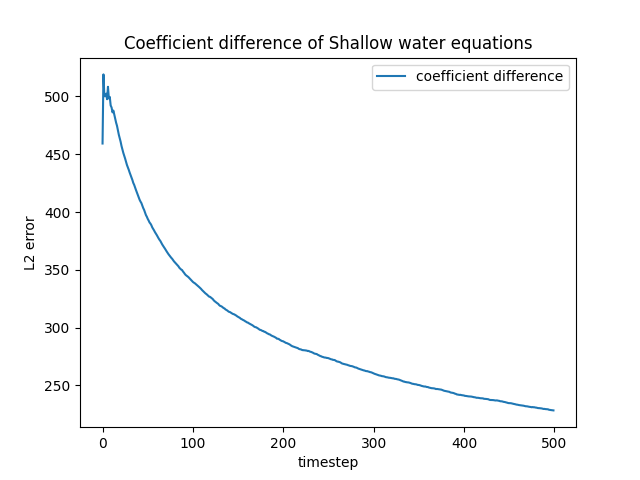
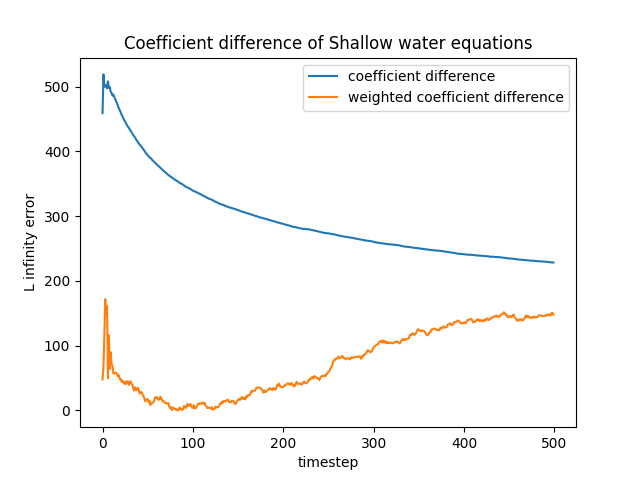
weighted coefficient graphs

diff --git a/experiments/shallowwater.py b/experiments/shallowwater.py
@@ -7,6 +7,7 @@ from numpy import linalg as LA
 import torch
 
 coefficient_difference = []
+weighted_coefficient_difference = []
 absolute_error = []
 relative_error = []
 actual_error = []
@@ -67,9 +68,38 @@ for timestep in range(500):
     # differences_a = compressor.normalize(blocks_a)
     coefficient_a = compressor.blockwise_transform(blocks_a)
 
+    weighted_coefficient_sum_a = 0.0
+    for blocks_rowwise in range(coefficient_a.size()[0]):
+        for blocks_columnwise in range(coefficient_a.size()[1]):
+            for row_in_block in range(coefficient_a.size()[2]):
+                weighted_coefficient_sum_a += (
+                    0.8 * coefficient_a[blocks_rowwise][blocks_columnwise][row_in_block][0]
+                    + 0.1 * coefficient_a[blocks_rowwise][blocks_columnwise][row_in_block][1]
+                    + 0.05 * coefficient_a[blocks_rowwise][blocks_columnwise][row_in_block][2]
+                    + 0.02 * coefficient_a[blocks_rowwise][blocks_columnwise][row_in_block][3]
+                    + 0.01 * coefficient_a[blocks_rowwise][blocks_columnwise][row_in_block][4]
+                    + 0.013 * coefficient_a[blocks_rowwise][blocks_columnwise][row_in_block][5]
+                    + 0.005 * coefficient_a[blocks_rowwise][blocks_columnwise][row_in_block][6]
+                    + 0.002 * coefficient_a[blocks_rowwise][blocks_columnwise][row_in_block][7]
+                )
+
     blocks_b = compressor.block(b)
     # differences_b = compressor.normalize(blocks_b)
     coefficient_b = compressor.blockwise_transform(blocks_b)
+    weighted_coefficient_sum_b = 0.0
+    for blocks_rowwise in range(coefficient_b.size()[0]):
+        for blocks_columnwise in range(coefficient_b.size()[1]):
+            for row_in_block in range(coefficient_b.size()[2]):
+                weighted_coefficient_sum_b += (
+                    0.8 * coefficient_b[blocks_rowwise][blocks_columnwise][row_in_block][0]
+                    + 0.1 * coefficient_b[blocks_rowwise][blocks_columnwise][row_in_block][1]
+                    + 0.05 * coefficient_b[blocks_rowwise][blocks_columnwise][row_in_block][2]
+                    + 0.02 * coefficient_b[blocks_rowwise][blocks_columnwise][row_in_block][3]
+                    + 0.013 * coefficient_b[blocks_rowwise][blocks_columnwise][row_in_block][4]
+                    + 0.01 * coefficient_b[blocks_rowwise][blocks_columnwise][row_in_block][5]
+                    + 0.005 * coefficient_b[blocks_rowwise][blocks_columnwise][row_in_block][6]
+                    + 0.002 * coefficient_b[blocks_rowwise][blocks_columnwise][row_in_block][7]
+                )
 
     compressed_a = compressor.compress(a)
     compressed_b = compressor.compress(b)
@@ -78,6 +108,7 @@ for timestep in range(500):
     decompressed_subtraction = compressor.decompress(compressed_b - compressed_a)
     timesteps.append(timestep)
     coefficient_difference.append((coefficient_b - coefficient_a).norm(float("inf")))
+    weighted_coefficient_difference.append(abs(weighted_coefficient_sum_b - weighted_coefficient_sum_a))
     absolute_error.append(decompressed_subtraction.norm(float("inf")))
     relative_error_tensor = np.nan_to_num(decompressed_subtraction / compressor.decompress(compressed_a))
     relative_error.append(LA.norm(relative_error_tensor, np.inf))
@@ -88,6 +119,7 @@ for timestep in range(500):
 # print(relative_error)
 # print(compressor.decompress(compressed_a))
 plt.plot(np.asarray(timesteps), np.asarray(coefficient_difference), label="coefficient difference")
+plt.plot(np.asarray(timesteps), np.asarray(weighted_coefficient_difference), label="weighted coefficient difference")
 plt.title("Coefficient difference of Shallow water equations")
 plt.xlabel("timestep")
 plt.ylabel("L infinity error")

diff --git a/compressed.py b/compressed.py
@@ -40,7 +40,7 @@ class CompressedTensor:
     @property
     def blocks_shape(self) -> tuple[int, ...]:
         return self.first_elements.shape
-
+ 
     @property
     def block_shape(self) -> tuple[int, ...]:
         return torch.tensor(self.original_shape) / torch.tensor(self.blocks_shape)
@@ -49,11 +49,7 @@ class CompressedTensor:
         """
         :returns: compressed block at the indices
         """
-        return CompressedBlock(
-            self.first_elements[item],
-            self.biggest_coefficients[item],
-            self.indicess[item],
-        )
+        return CompressedBlock(self.first_elements[item], self.biggest_coefficients[item], self.indicess[item])
 
     def __setitem__(self, key: tuple[int, ...] or int, value: CompressedBlock):
         self.first_elements[key] = value.first_element
@@ -64,34 +60,23 @@ class CompressedTensor:
         """
         :returns: negated compressed tensor.
         """
-        return CompressedTensor(
-            self.original_shape,
-            -self.first_elements,
-            self.biggest_coefficients,
-            -self.indicess,
-        )
+        return CompressedTensor(self.original_shape, -self.first_elements, self.biggest_coefficients, -self.indicess)
 
     def __add__(self, other):
         """
         :returns: sum of two compressed tensors
         """
         indices = (
-            self.indicess
-            * self.biggest_coefficients[(...,) + (None,) * self.n_dimensions]
-            + other.indicess
-            * other.biggest_coefficients[(...,) + (None,) * other.n_dimensions]
+            self.indicess * self.biggest_coefficients[(...,) + (None,) * self.n_dimensions]
+            + other.indicess * other.biggest_coefficients[(...,) + (None,) * other.n_dimensions]
         )
 
         proportion_of_radius = (
-            indices.norm(
-                torch.inf, tuple(range(self.n_dimensions, 2 * self.n_dimensions))
-            )
+            indices.norm(torch.inf, tuple(range(self.n_dimensions, 2 * self.n_dimensions)))
             / INDICES_RADIUS[self.indicess.dtype]
         )
         indices = torch.nan_to_num(
-            (indices / proportion_of_radius[(...,) + (None,) * other.n_dimensions])
-            .round()
-            .type(self.indicess.dtype)
+            (indices / proportion_of_radius[(...,) + (None,) * other.n_dimensions]).round().type(self.indicess.dtype)
         )
         return CompressedTensor(
             self.original_shape,
@@ -110,9 +95,7 @@ class CompressedTensor:
         """
         :returns: compressed tensor scaled by a scalar
         """
-        if isinstance(other, (float, int)) or (
-            isinstance(other, torch.Tensor) and other.numel() == 1
-        ):
+        if isinstance(other, (float, int)) or (isinstance(other, torch.Tensor) and other.numel() == 1):
             product = CompressedTensor(
                 self.original_shape,
                 self.first_elements * other,
@@ -121,9 +104,7 @@ class CompressedTensor:
             )
             return product
         else:
-            raise TypeError(
-                f"Multiply not defined between {type(self)} and {type(other)}."
-            )
+            raise TypeError(f"Multiply not defined between {type(self)} and {type(other)}.")
 
     def __rmul__(self, other):
         """

diff --git a/experiments/coefficients.py b/experiments/coefficients.py
@@ -1,6 +1,6 @@
 import argparse
 
-from sqlalchemy import false
+
 
 import compression
 import torch
@@ -39,15 +39,27 @@ def main():
 
     x = torch.rand(80, 80, dtype=dtype, device=device)
     blocks_x = compressor.block(x)
+ 
+
     # differences_x = compressor.normalize(blocks_x)
     coefficient_x = compressor.blockwise_transform(blocks_x)
-
+    sum1 = 0.0
+    for k in range(10):
+        for i in range(8):
+            for j in range(8):
+                sum1 += 0.8*coefficient_x[0][k][i][0] + 0.1*coefficient_x[0][k][i][1] + 0.05*coefficient_x[0][k][i][2] + 0.02*coefficient_x[0][k][i][3] + 0.01*coefficient_x[0][k][i][4] + 0.013*coefficient_x[0][k][i][5] + 0.005*coefficient_x[0][k][i][6] + 0.002*coefficient_x[0][k][i][7]
     y = torch.rand(80, 80, dtype=dtype, device=device)
     blocks_y = compressor.block(y)
     # differences_y = compressor.normalize(blocks_y)
     coefficient_y = compressor.blockwise_transform(blocks_y)
+    sum2 = 0.0
+    for k in range(10):
+        for i in range(8):
+            for j in range(8):
+                sum2 += 0.8*coefficient_y[0][k][i][0] + 0.1*coefficient_y[0][k][i][1] + 0.05*coefficient_y[0][k][i][2] + 0.02*coefficient_y[0][k][i][3] + 0.01*coefficient_y[0][k][i][4] + 0.013*coefficient_y[0][k][i][5] + 0.005*coefficient_y[0][k][i][6] + 0.002*coefficient_y[0][k][i][7]
 
-    print((coefficient_y - coefficient_x).max())
+
+    print(sum2 - sum1)
 
 
 if __name__ == "__main__":
